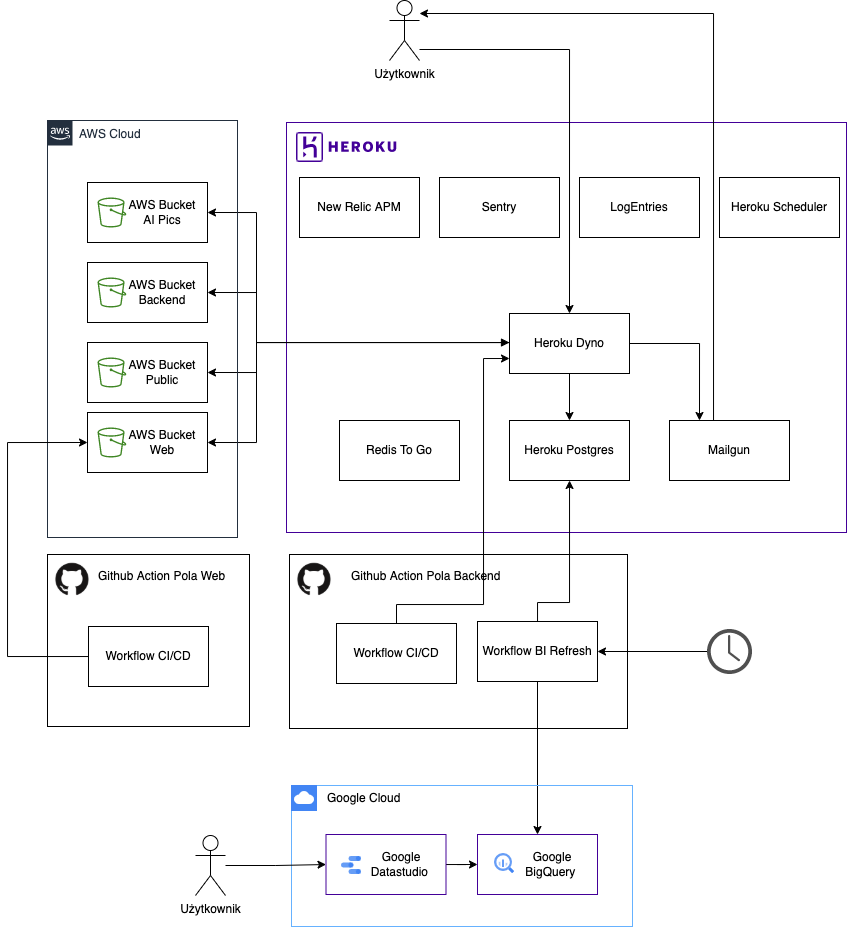
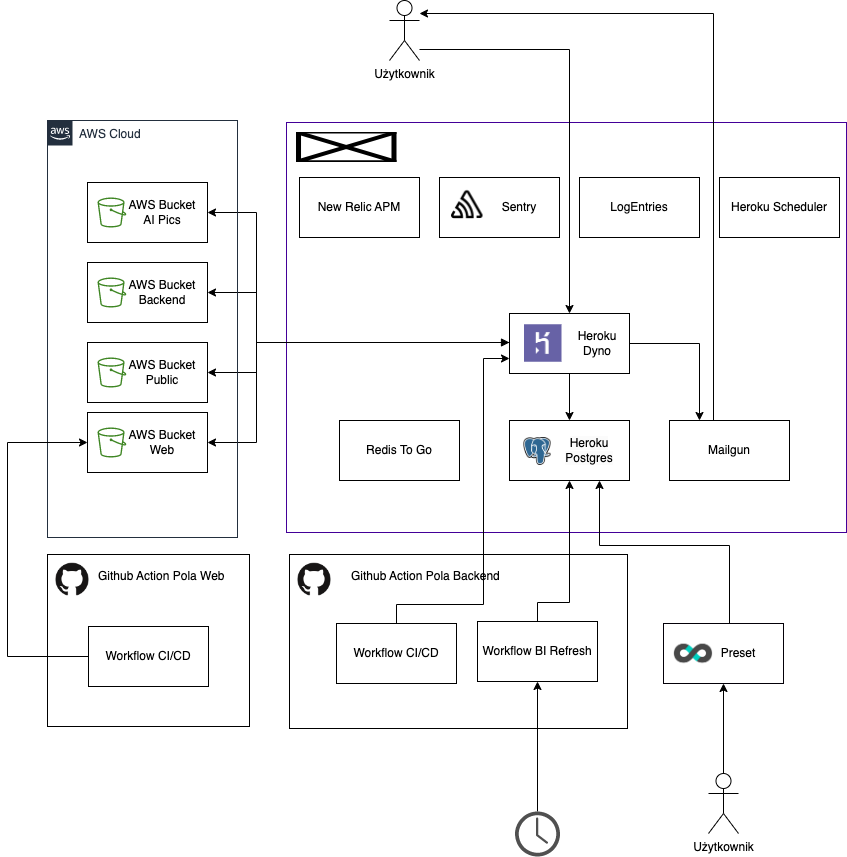
Replace Data Studio with Preset in docs

diff --git a/docs/introduction.rst b/docs/introduction.rst
@@ -56,4 +56,4 @@ Założenia
   * ``AWS Bucket Public`` - przechowuje pliki statyczne np. kod CSS/JS,. Zawartość jest publiczna dla wszystkich.
   * ``AWS Bucket Web`` - przechowuje skompilowana aplikacje ``pola-web``.
 
-* ``pola-bi`` jest zbiorem narzędiz, który uruchamia się cyklicznie na Github Action, który transformuje dane w ``Heroku Postgres``, a następnie zapisuje je w ``Google BigQuery``, co pozwala na dostęp do danych przez raporty utworzone w ``Google Datastudio``. Nie jest możliwe wykorzysywane bezpośredniego połączenia z ``Google Datastudio`` do ``Heroku Postgress``, ponieważ ``Heroku Postgress`` regularnie zmienia hasła, a ``Google Datastudio`` nie umożliwia API do aktualizacji danych
+* ``pola-bi`` jest zbiorem narzędzi, który uruchamia się cyklicznie na Github Action, który transformuje dane w ``Heroku Postgres`` i zapisuje do tej samej instacji, co pozwala na dostęp do danych przez raporty utworzone w ``Preset``.
